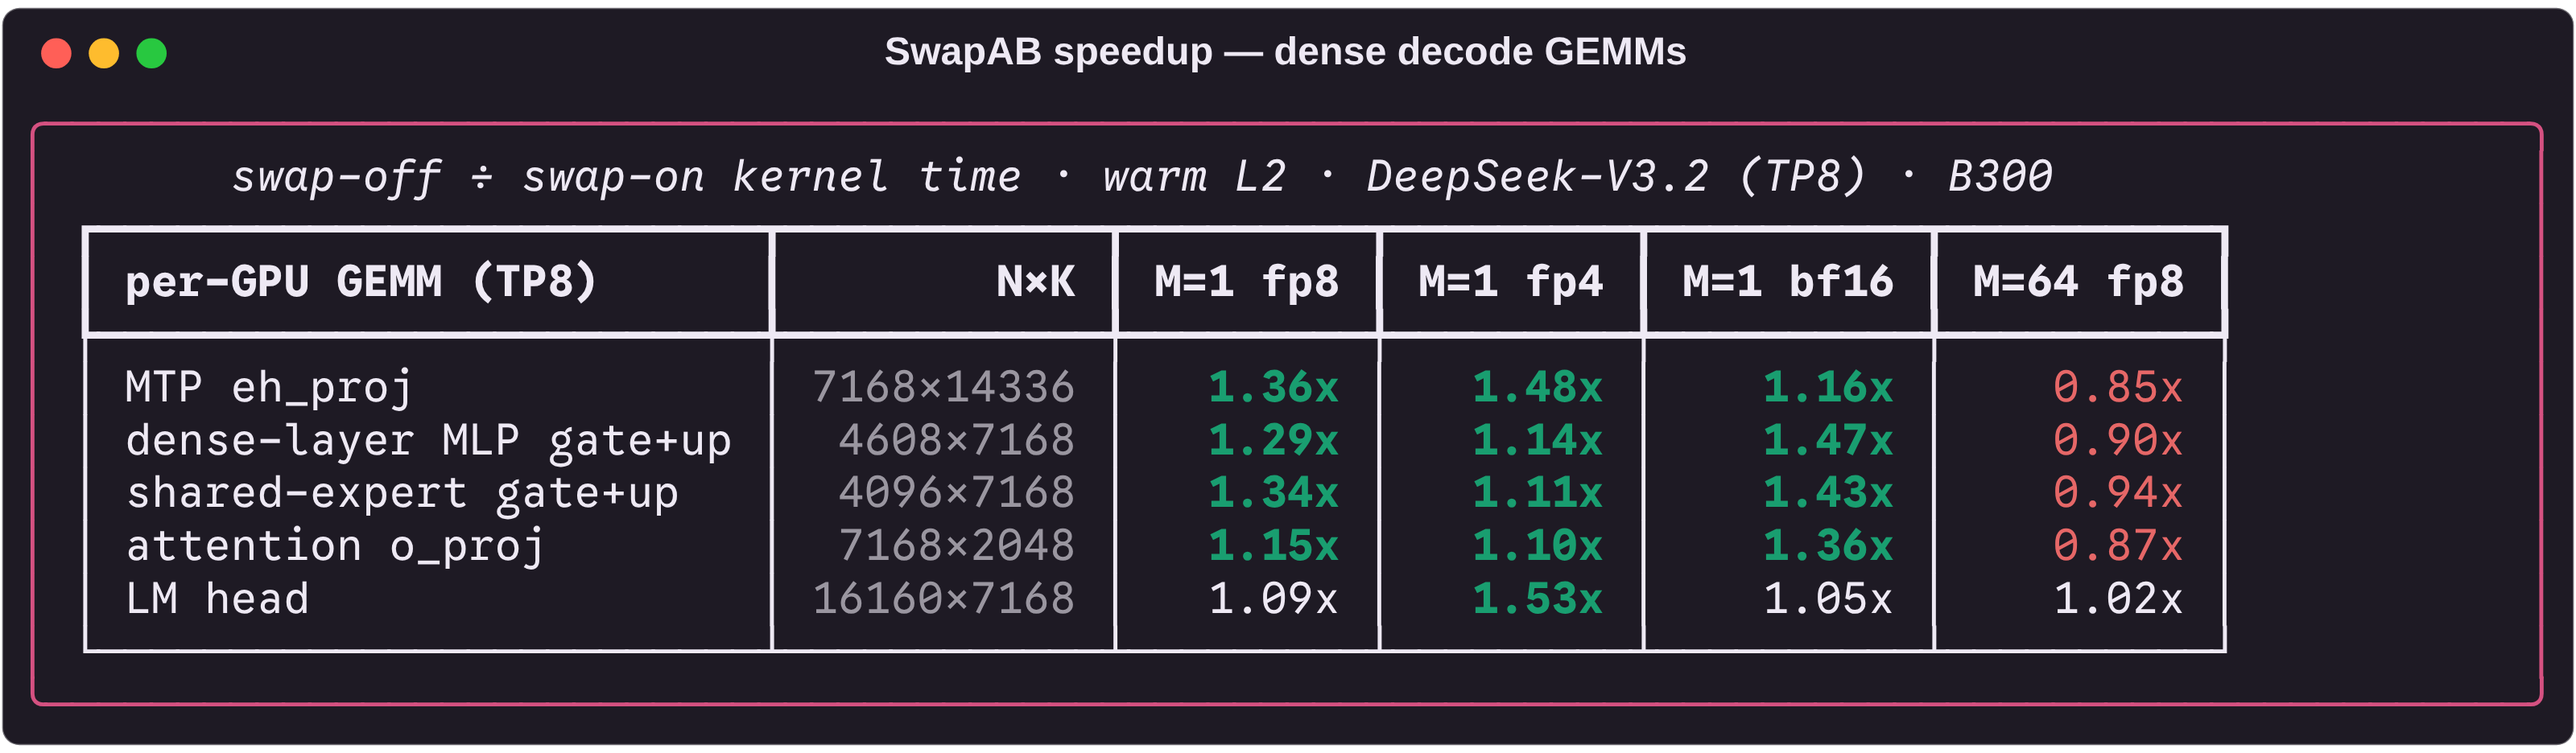
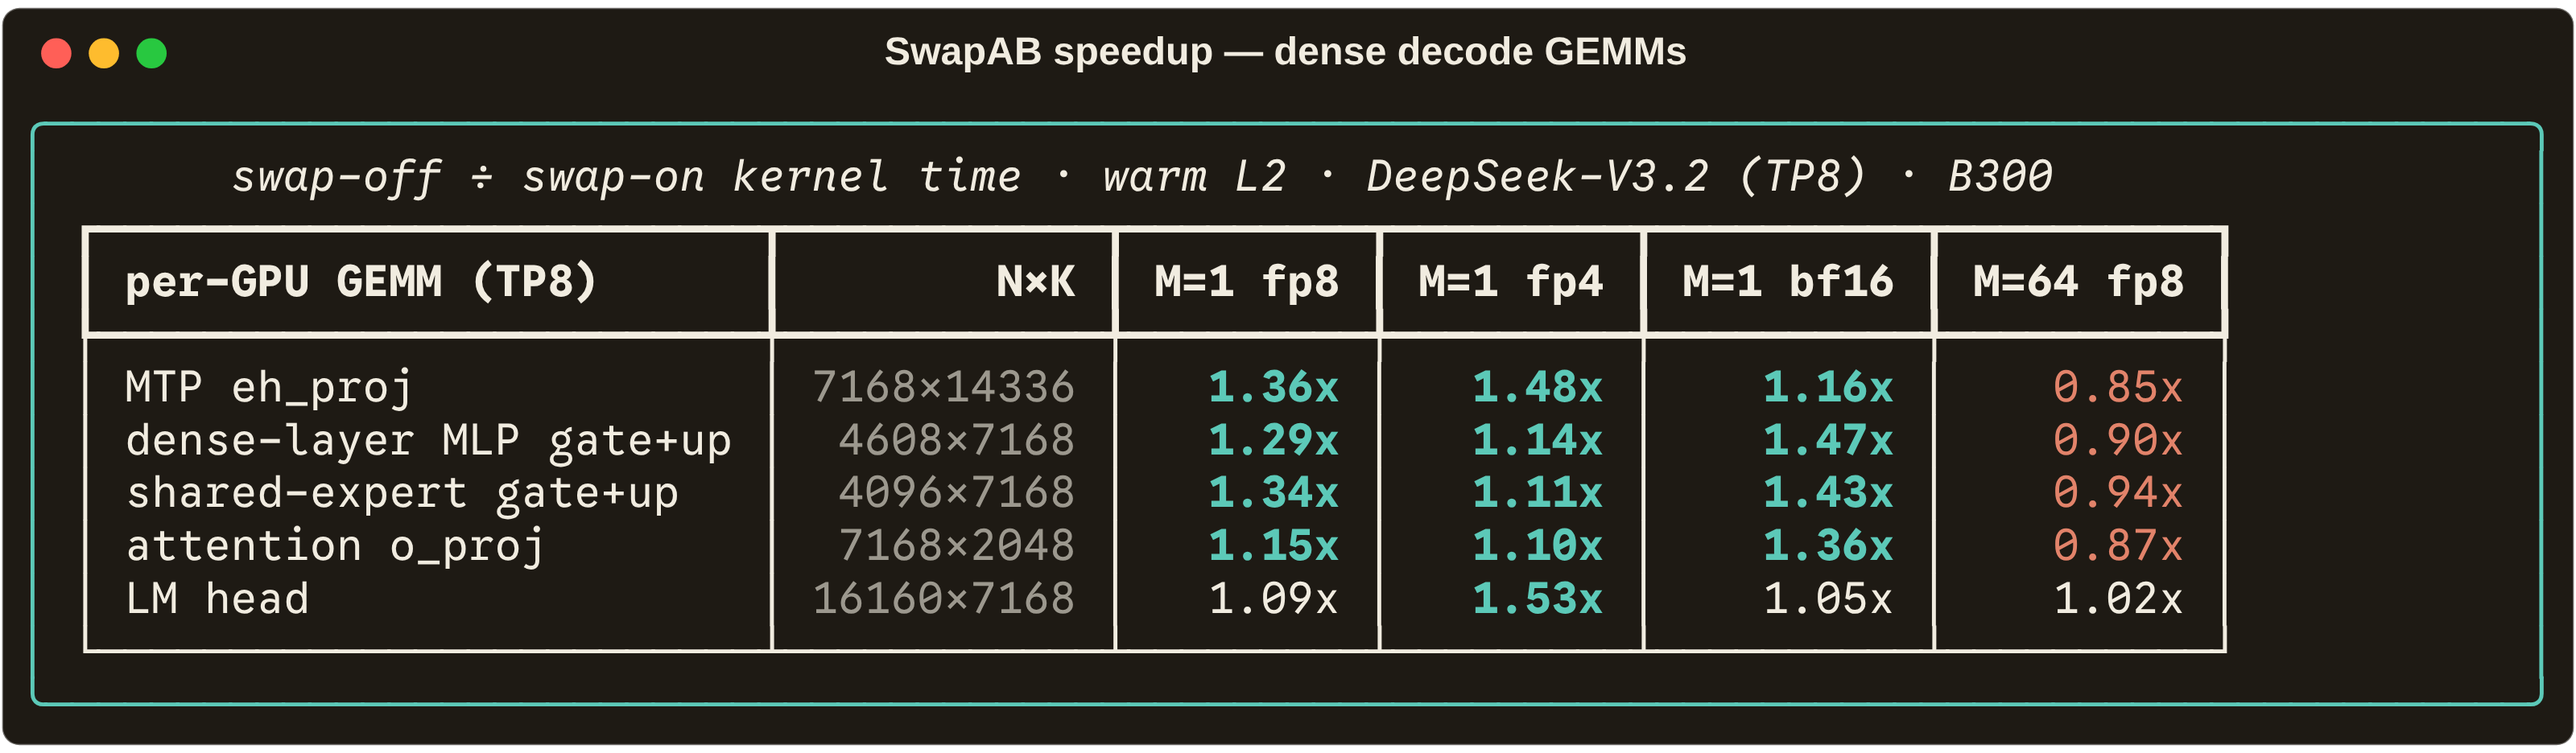
Recolor all figures with humansand tokens (colors only)
Palette from vincentzed/my-skills humansand-style (humansand.ai site.css),
dark complement: paper #1e1a14, ink #f1ece0, muted #b3a897, faint #837a6a,
line #3c352a, accent teal #5cc9b8 (hero/good), rust #e2836a (bad/emphasis).
Applied to both vega plot constants and the terminal TerminalTheme; chart
forms, fonts, and layout unchanged.

Claude-Session: https://claude.ai/code/session_016BCxYu86qaXRzJjRyC2gx3

diff --git a/scripts/make_visuals.py b/scripts/make_visuals.py
@@ -23,16 +23,17 @@ from rich.panel import Panel
 from rich.terminal_theme import TerminalTheme
 from rich.text import Text
 
-# Terminal panels sit on the SAME card surface as the vega-lite plots
-# (thread_visuals.PLOT_SURFACE #1e1a24), with ANSI slots snapped to the
-# skill's validated palette (GOOD/BAD accents, PALETTE hues).
+# Terminal panels sit on the SAME card surface as the vega-lite plots:
+# humansand's dark paper #1e1a14, ink #f1ece0, with the ANSI slots mapped to
+# the humansand accents — teal #5cc9b8 (good), rust #e2836a (bad/emphasis),
+# warm muted/faint grays for everything else.
 THEME = TerminalTheme(
-    (30, 26, 36),                                   # background #1e1a24
-    (238, 233, 244),                                # foreground #eee9f4
-    [(30, 26, 36), (230, 103, 103), (25, 158, 112), (201, 133, 0),
-     (57, 135, 229), (213, 81, 129), (86, 180, 233), (238, 233, 244)],
-    [(139, 132, 150), (230, 103, 103), (25, 158, 112), (201, 133, 0),
-     (57, 135, 229), (213, 81, 129), (86, 180, 233), (255, 255, 255)],
+    (30, 26, 20),                                   # background #1e1a14
+    (241, 236, 224),                                # foreground #f1ece0
+    [(30, 26, 20), (226, 131, 106), (92, 201, 184), (179, 168, 151),
+     (131, 122, 106), (92, 201, 184), (92, 201, 184), (241, 236, 224)],
+    [(131, 122, 106), (226, 131, 106), (92, 201, 184), (179, 168, 151),
+     (131, 122, 106), (92, 201, 184), (92, 201, 184), (255, 255, 255)],
 )
 
 ROOT = Path(__file__).resolve().parent.parent

diff --git a/scripts/thread_visuals.py b/scripts/thread_visuals.py
@@ -217,14 +217,14 @@ LABEL_EXPR = (
     "datum.value >= 1000 ? format(datum.value / 1000, '.3~r') + 'k' "
     ": format(datum.value, ',.0f')"
 )
-PLOT_SURFACE = "#1e1a24"  # purple-tinted near-black card
-PLOT_SERIES = ["#9174e8", "#ba8420", "#249f85", "#4f92dd"]  # validated 4-slot
-PLOT_HERO = "#a78bfa"  # brighter emphasis purple (lone-accent use only)
-PLOT_MUTED_SERIES = "#8b8496"  # gray-lavender context line (mute_rest mode)
-PLOT_INK = "#eee9f4"
-PLOT_INK_MUTED = "#a89fb8"
-PLOT_TAN = "#d8c5a3"  # light tan — unit/subtitle accent
-PLOT_GRID = "#332d3d"
+PLOT_SURFACE = "#1e1a14"  # humansand dark paper (warm near-black)
+PLOT_SERIES = ["#5cc9b8", "#e2836a", "#b3a897", "#837a6a"]  # humansand teal/rust/muted/faint
+PLOT_HERO = "#5cc9b8"  # humansand accent teal (hero series)
+PLOT_MUTED_SERIES = "#837a6a"  # humansand faint (context series)
+PLOT_INK = "#f1ece0"
+PLOT_INK_MUTED = "#b3a897"
+PLOT_TAN = "#837a6a"  # humansand faint — unit/subtitle meta line
+PLOT_GRID = "#3c352a"
 PLOT_FONT = "Liberation Sans"  # Helvetica-metric stand-in for the original's Helvetica Neue
 
 
